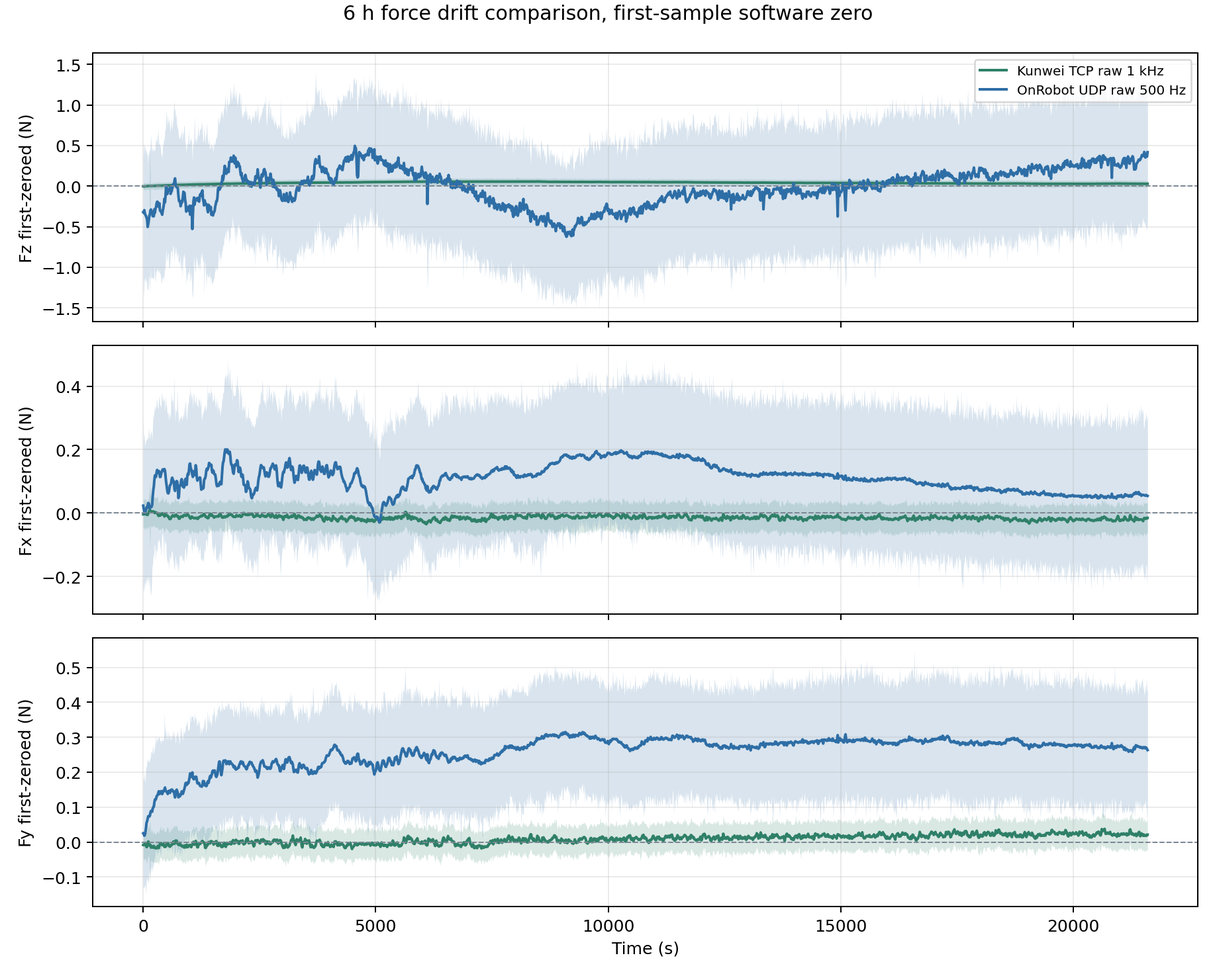
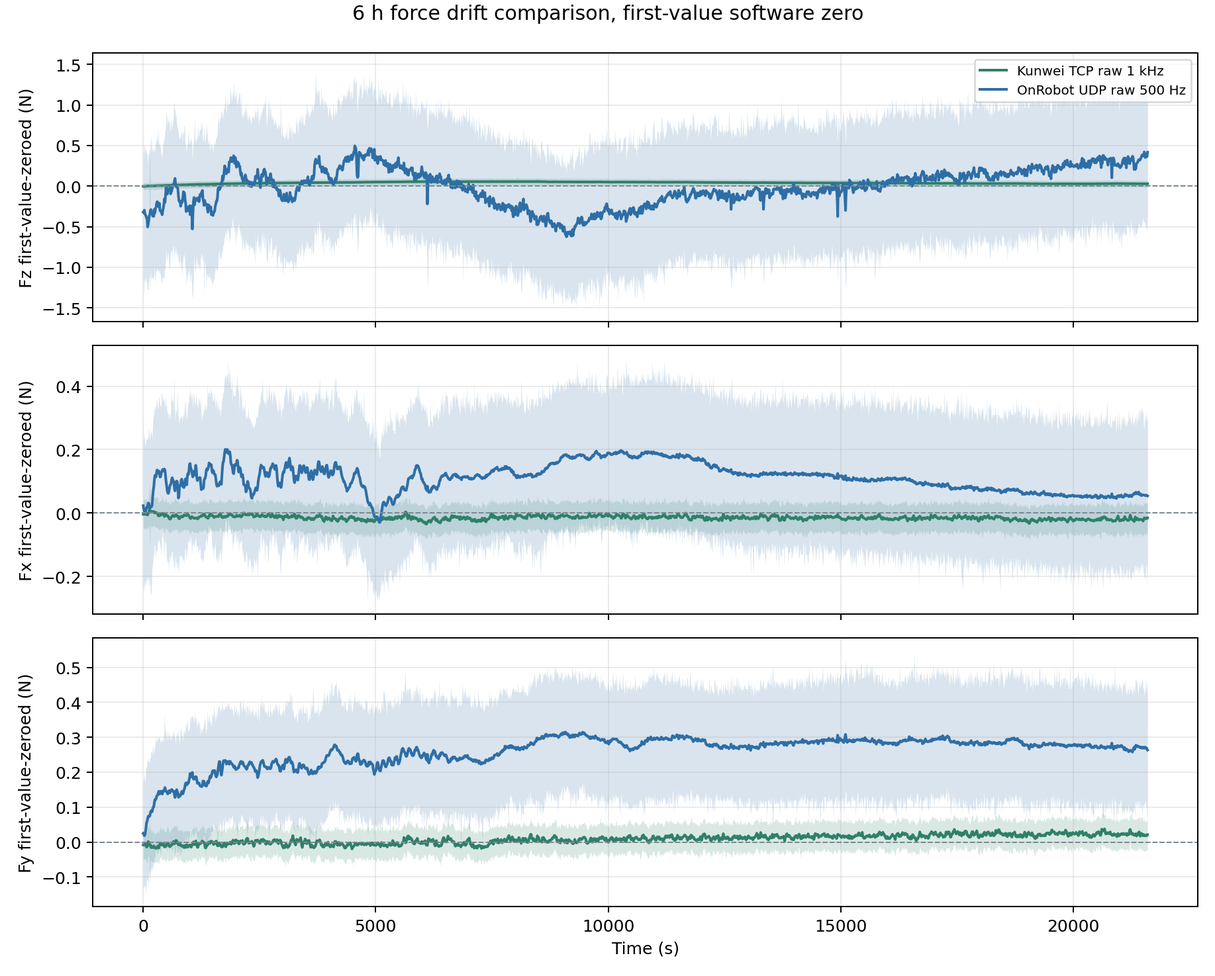
Clarify Kunwei first-value zero comparison

diff --git a/weekly_meeting/kunwei_kwr75_meeting_deck_20260608.html b/weekly_meeting/kunwei_kwr75_meeting_deck_20260608.html
@@ -157,7 +157,7 @@
     <section id="summary">
       <div class="eyebrow">Kunwei KWR75 / UR10e</div>
       <h1>Kunwei force sensor progress report</h1>
-      <p class="lead">Kunwei is no longer just a bring-up task: the TCP raw logging path has a stable 19 h 15 min run, and Step2C has completed a closed-loop straight-line contact task. The remaining issue is force transient and Fz stability, not basic connectivity.</p>
+      <p class="lead">Kunwei is no longer just a bring-up task: the TCP raw logging path has a stable 19 h 15 min run, and Step2C has completed a closed-loop straight-line contact task. The OnRobot/Kunwei comparison in this deck uses existing logs only, with first-value software zero inside each selected window.</p>
       <div class="grid">
         <div class="metric"><span>Long raw capture</span><strong>69.3M samples</strong></div>
         <div class="metric"><span>Average raw rate</span><strong>999.990 Hz</strong></div>
@@ -169,7 +169,7 @@
     <section id="link">
       <div class="eyebrow">Sensor link</div>
       <h2>1 kHz TCP logging is stable for the current bench</h2>
-      <p>The 19 h 15 min no-motion run received converted Kunwei frames continuously over TCP. This validates the current Ubuntu collection path, but it is not a 24 h run and it is not a zero-load calibration.</p>
+      <p>The 19 h 15 min no-motion run received converted Kunwei frames continuously over TCP. This validates the current Ubuntu collection path, but it is not a 24 h run and it is not a device-side zero/tare calibration.</p>
       <div class="grid">
         <div class="metric"><span>Duration</span><strong>19.257 h</strong></div>
         <div class="metric"><span>Fz last-first</span><strong>0.0457 N</strong></div>
@@ -191,10 +191,10 @@
     <section id="compare">
       <div class="eyebrow">Sensor comparison</div>
       <h2>OnRobot vs Kunwei, first 600 s</h2>
-      <p>Both traces are first-sample software zeroed inside their own 600 s windows. The shaded region is a min/max envelope; statistics use all samples in the selected window.</p>
+      <p>Both traces are first-value software zeroed inside their own 600 s windows. No device-side zero/tare was executed for this report version. The shaded region is a min/max envelope; statistics use all samples in the selected window.</p>
       <div class="grid">
-        <figure class="span-12"><img src="assets/kunwei_kwr75_20260608/first600_onrobot_kunwei_force_axes_envelope.png" alt="First 600 s force axes comparison"><figcaption>Fig. 1. Fx/Fy/Fz first-zeroed envelopes. This compares short-window stability, not absolute bias.</figcaption></figure>
-        <figure class="span-7"><img src="assets/kunwei_kwr75_20260608/first600_onrobot_kunwei_fz_envelope.png" alt="First 600 s Fz comparison"><figcaption>Fig. 2. Fz detail, first-zeroed within each sensor's own run.</figcaption></figure>
+        <figure class="span-12"><img src="assets/kunwei_kwr75_20260608/first600_onrobot_kunwei_force_axes_envelope.png" alt="First 600 s force axes comparison"><figcaption>Fig. 1. Fx/Fy/Fz first-value-zeroed envelopes. This compares short-window stability, not absolute bias.</figcaption></figure>
+        <figure class="span-7"><img src="assets/kunwei_kwr75_20260608/first600_onrobot_kunwei_fz_envelope.png" alt="First 600 s Fz comparison"><figcaption>Fig. 2. Fz detail, first-value-zeroed within each sensor's own run.</figcaption></figure>
         <figure class="span-5"><img src="assets/kunwei_kwr75_20260608/first600_onrobot_kunwei_force_std.png" alt="First 600 s force standard deviation"><figcaption>Fig. 3. Force-axis standard deviation in the first 600 s windows.</figcaption></figure>
       </div>
     </section>
@@ -207,15 +207,15 @@
         <div class="metric"><span>OnRobot available</span><strong>8.79 h</strong></div>
         <div class="metric"><span>Common max</span><strong>8.79 h</strong></div>
         <div class="metric"><span>Selected window</span><strong>6.00 h</strong></div>
-        <figure class="span-12"><img src="assets/kunwei_kwr75_20260608/sixh_onrobot_kunwei_fz_envelope.png" alt="6 h Fz comparison"><figcaption>Fig. 4. Fz first-zeroed envelope for the selected 6 h comparison window. Statistics use all samples in the window.</figcaption></figure>
-        <figure class="span-12"><img src="assets/kunwei_kwr75_20260608/sixh_onrobot_kunwei_force_axes_envelope.png" alt="6 h force axes comparison"><figcaption>Fig. 5. Fx/Fy/Fz first-zeroed envelopes over 6 h. This is a long-window drift comparison, not an absolute calibration claim.</figcaption></figure>
+        <figure class="span-12"><img src="assets/kunwei_kwr75_20260608/sixh_onrobot_kunwei_fz_envelope.png" alt="6 h Fz comparison"><figcaption>Fig. 4. Fz first-value-zeroed envelope for the selected 6 h comparison window. Statistics use all samples in the window.</figcaption></figure>
+        <figure class="span-12"><img src="assets/kunwei_kwr75_20260608/sixh_onrobot_kunwei_force_axes_envelope.png" alt="6 h force axes comparison"><figcaption>Fig. 5. Fx/Fy/Fz first-value-zeroed envelopes over 6 h. This is a long-window drift comparison, not an absolute calibration claim.</figcaption></figure>
         <figure class="span-12"><img src="assets/kunwei_kwr75_20260608/sixh_onrobot_kunwei_force_std.png" alt="6 h force standard deviation"><figcaption>Fig. 6. Force-axis standard deviation over the selected 6 h window.</figcaption></figure>
       </div>
     </section>
     <section id="next">
       <div class="eyebrow">Next action</div>
       <h2>Stabilize contact entry before chasing higher frequency</h2>
-      <p>The next Step2C change should reduce line-entry force transient: add a settle stage, or minimally lower normal velocity limit to +/-3 mm/s and alpha to 0.50. A formal OnRobot/Kunwei A/B needs same fixture, same zero/tare strategy, and same no-contact window.</p>
+      <p>The next Step2C change should reduce line-entry force transient: add a settle stage, or minimally lower normal velocity limit to +/-3 mm/s and alpha to 0.50. This report version does not require a new OnRobot/Kunwei experiment; the comparison is explicitly a first-value software-zeroed view of existing logs.</p>
       <div class="grid">
         <table class="span-12">
           <thead><tr><th>Decision</th><th>Current evidence</th><th>Default next move</th></tr></thead>
@@ -223,7 +223,7 @@
             <tr><td>Logging route</td><td>Kunwei TCP raw is stable at 1 kHz class</td><td>Use it as the default Kunwei collector</td></tr>
             <tr><td>Force control</td><td>Mean Fz is near target, but transient and ripple remain large</td><td>Add settle or soften normal correction</td></tr>
             <tr><td>Frequency claim</td><td>RTDE/bridge are 500 Hz class; stage25 echo is ~250 Hz</td><td>Keep these frequency layers separate</td></tr>
-            <tr><td>A/B comparison</td><td>Existing 600 s windows differ in setup/date/load</td><td>Run a same-fixture comparison if absolute claims are needed</td></tr>
+            <tr><td>A/B comparison</td><td>Existing 600 s and 6 h windows differ in setup/date/load</td><td>Use first-value software zero for this report; reserve same-fixture testing only for future absolute calibration claims</td></tr>
           </tbody>
         </table>
       </div>

diff --git a/weekly_meeting/build_kunwei_kwr75_report.py b/weekly_meeting/build_kunwei_kwr75_report.py
@@ -368,9 +368,9 @@ def build_figures(short_kunwei: dict, short_onrobot: dict, long_kunwei: dict, lo
 
     fig, axes = plt.subplots(3, 1, figsize=(10.2, 8.2), sharex=True)
     pairs = [
-        ("Fz", "Fz_N", "fz_n", "Fz first-zeroed (N)"),
-        ("Fx", "Fx_N", "fx_n", "Fx first-zeroed (N)"),
-        ("Fy", "Fy_N", "fy_n", "Fy first-zeroed (N)"),
+        ("Fz", "Fz_N", "fz_n", "Fz first-value-zeroed (N)"),
+        ("Fx", "Fx_N", "fx_n", "Fx first-value-zeroed (N)"),
+        ("Fy", "Fy_N", "fy_n", "Fy first-value-zeroed (N)"),
     ]
     for ax, (_, k_col, o_col, ylabel) in zip(axes, pairs):
         plot_envelope(ax, short_kunwei["series"][k_col], "Kunwei TCP raw 1 kHz", "#2f8068")
@@ -380,7 +380,7 @@ def build_figures(short_kunwei: dict, short_onrobot: dict, long_kunwei: dict, lo
         ax.grid(True, alpha=0.25)
     axes[0].legend(loc="upper right", fontsize=8)
     axes[-1].set_xlabel("Time (s)")
-    fig.suptitle("First 600 s force drift comparison, first-sample software zero", y=0.995)
+    fig.suptitle("First 600 s force drift comparison, first-value software zero", y=0.995)
     fig.tight_layout()
     figures["first600_force_axes"] = save_and_copy(fig, "first600_onrobot_kunwei_force_axes_envelope.png")
 
@@ -389,7 +389,7 @@ def build_figures(short_kunwei: dict, short_onrobot: dict, long_kunwei: dict, lo
     plot_envelope(ax, short_onrobot["series"]["fz_n"], "OnRobot UDP raw 500 Hz", "#2e6ea6")
     ax.axhline(0.0, color="#7b8794", linewidth=0.8, linestyle="--")
     ax.set_xlabel("Time (s)")
-    ax.set_ylabel("Fz first-zeroed (N)")
+    ax.set_ylabel("Fz first-value-zeroed (N)")
     ax.set_title("Fz drift comparison, first 600 s")
     ax.grid(True, alpha=0.25)
     ax.legend(loc="upper right", fontsize=8)
@@ -408,7 +408,7 @@ def build_figures(short_kunwei: dict, short_onrobot: dict, long_kunwei: dict, lo
     ]
     colors = ["#2f8068", "#2e6ea6", "#2f8068", "#2e6ea6", "#2f8068", "#2e6ea6"]
     ax.bar(labels, values, color=colors)
-    ax.set_ylabel("Std after first-sample zero (N)")
+    ax.set_ylabel("Std after first-value zero (N)")
     ax.set_title("First 600 s force noise/drift scale")
     ax.grid(axis="y", alpha=0.25)
     ax.tick_params(axis="x", rotation=25)
@@ -424,7 +424,7 @@ def build_figures(short_kunwei: dict, short_onrobot: dict, long_kunwei: dict, lo
         ax.grid(True, alpha=0.25)
     axes[0].legend(loc="upper right", fontsize=8)
     axes[-1].set_xlabel("Time (s)")
-    fig.suptitle("6 h force drift comparison, first-sample software zero", y=0.995)
+    fig.suptitle("6 h force drift comparison, first-value software zero", y=0.995)
     fig.tight_layout()
     figures["sixh_force_axes"] = save_and_copy(fig, "sixh_onrobot_kunwei_force_axes_envelope.png")
 
@@ -433,7 +433,7 @@ def build_figures(short_kunwei: dict, short_onrobot: dict, long_kunwei: dict, lo
     plot_precomputed_envelope(ax, long_onrobot["envelopes"]["fz_n"], "OnRobot UDP raw 500 Hz", "#2e6ea6")
     ax.axhline(0.0, color="#7b8794", linewidth=0.8, linestyle="--")
     ax.set_xlabel("Time (s)")
-    ax.set_ylabel("Fz first-zeroed (N)")
+    ax.set_ylabel("Fz first-value-zeroed (N)")
     ax.set_title("Fz drift comparison, 6 h")
     ax.grid(True, alpha=0.25)
     ax.legend(loc="upper right", fontsize=8)
@@ -450,7 +450,7 @@ def build_figures(short_kunwei: dict, short_onrobot: dict, long_kunwei: dict, lo
         long_onrobot["zeroed_stats"]["fy_n"]["std"],
     ]
     ax.bar(labels, values, color=colors)
-    ax.set_ylabel("Std after first-sample zero (N)")
+    ax.set_ylabel("Std after first-value zero (N)")
     ax.set_title("6 h force noise/drift scale")
     ax.grid(axis="y", alpha=0.25)
     ax.tick_params(axis="x", rotation=25)
@@ -596,7 +596,7 @@ def strip_plot_data(data: dict) -> dict:
 
 def write_summary_json(short_kunwei: dict, short_onrobot: dict, long_kunwei: dict, long_onrobot: dict, figures: dict, long_summary: dict, step2c: dict) -> Path:
     payload = {
-        "comparison_note": "Both streams use first-sample software zero in their own selected windows; this is not a same-fixture absolute calibration comparison.",
+        "comparison_note": "Both streams use first-value software zero in their own selected windows; no device-side zero/tare was executed and no new experiment is required for this report version.",
         "available_duration": {
             "kunwei_s": 69325.77287676797,
             "onrobot_udp_s": COMMON_MAX_WINDOW_S,
@@ -636,7 +636,7 @@ def build_markdown(short_kunwei: dict, short_onrobot: dict, long_kunwei: dict, l
 
 ## 实验目的
 
-这份报告把 Kunwei KWR75/KWR75B 当前证据单独整理出来，用于说明三件事：传感器与通信链路是否已经可用，长时间无运动 `1 kHz` 采集是否稳定，以及当前 Step2C 闭环直线实验走到什么程度。报告包含两层 OnRobot/Kunwei 对比：前 `600 s` 用于短窗口 noise/drift 判断，`6 h` 用于长时间漂移判断。两者都只作为 drift/noise 口径对照，不作为同机械状态下的绝对标定结论。
+这份报告把 Kunwei KWR75/KWR75B 当前证据单独整理出来，用于说明三件事：传感器与通信链路是否已经可用，长时间无运动 `1 kHz` 采集是否稳定，以及当前 Step2C 闭环直线实验走到什么程度。报告包含两层 OnRobot/Kunwei 对比：前 `600 s` 用于短窗口 noise/drift 判断，`6 h` 用于长时间漂移判断。当前版本只使用已有日志，不重做实验；两者都按各自窗口第一帧做 software zero，只作为 drift/noise 口径对照，不作为同机械状态下的绝对标定结论。
 
 结论先给出：Kunwei TCP raw logging 已经支撑 `19 h 15 min`、约 `1 kHz`、无 parse error 的长跑；Step2C 已经完成 `search5 + guard20` 下的闭环直线，力均值能靠近 `-5 N`，但进入 line 阶段的瞬态和 Fz 波动仍是主要问题。机器人侧运动闭环频率不能写成 `500 Hz`，本轮 stage25 echo/motion gate 实测约 `{fmt(stage25_echo['rate_hz'], 2)} Hz`。
 
@@ -649,7 +649,7 @@ def build_markdown(short_kunwei: dict, short_onrobot: dict, long_kunwei: dict, l
 | Ubuntu bench IP | `192.168.50.26/24` on `enp3s0` |
 | Vendor GUI 状态 | Windows 11 原生 `SensorLinker.exe` 已验证 live 数据与 CSV 记录；Ubuntu/Wine 不是当前默认路线 |
 | 长时采集状态 | 无机器人运动、无接触操作，只测传感器通信和静态读数 |
-| Step2C zero 口径 | bridge 软件 baseline；未调用 Kunwei hardware tare，未调用 UR `zero_ftsensor()` |
+| zero 口径 | 本报告 OnRobot/Kunwei 对比均为 first-value software zero；未调用 Kunwei hardware tare、OnRobot device bias/tare 或 UR `zero_ftsensor()` |
 | Step2C 参考线 | 长度约 `63.58 mm` 的 XY straight-line reference |
 | 本报告图表口径 | 统计用选定窗口内全样本；长 trace 图用 min/max envelope，不用等间隔抽样线作为主证据 |
 | 最长可用公共窗口 | Kunwei `19.26 h`，OnRobot UDP `8.79 h`；本报告长对比采用更适合汇报的 `6 h` |
@@ -671,15 +671,15 @@ def build_markdown(short_kunwei: dict, short_onrobot: dict, long_kunwei: dict, l
 | OnRobot 600s UDP raw CSV | [../experiments/20260528_onrobot_three_stream_600s_first_zero/run_20260528_043100/three_stream_600s_20260528_043052_onrobot_udp500_raw.csv](../experiments/20260528_onrobot_three_stream_600s_first_zero/run_20260528_043100/three_stream_600s_20260528_043052_onrobot_udp500_raw.csv) |
 | OnRobot 6h UDP raw CSV | [../experiments/20260530_onrobot_three_stream_coldstart_drift/run_20260530_175217/three_stream_24h_20260530_20260530_175220_onrobot_udp500_raw.csv](../experiments/20260530_onrobot_three_stream_coldstart_drift/run_20260530_175217/three_stream_24h_20260530_20260530_175220_onrobot_udp500_raw.csv) |
 
-图 1 是本报告最主要的 OnRobot/Kunwei 前 `600 s` 对比图。两条曲线都先减去各自窗口第一帧，因此显示的是本窗口内的相对变化。阴影是每个时间 bin 内的 min/max envelope，实线是 bin mean；统计表仍使用窗口内所有样本。
+图 1 是本报告最主要的 OnRobot/Kunwei 前 `600 s` 对比图。两条曲线都先减去各自窗口第一帧，因此显示的是本窗口内的相对变化。这个 zero 是软件分析口径，不是 device-side zero/tare。阴影是每个时间 bin 内的 min/max envelope，实线是 bin mean；统计表仍使用窗口内所有样本。
 
 ![OnRobot vs Kunwei first 600s force axes]({figures['first600_force_axes']['report']})
 
-图 2 单独展开 Fz。Kunwei 前 `600 s` 的 first-zeroed Fz 标准差是 `{fmt(short_kunwei['zeroed_stats']['Fz_N']['std'], 4)} N`，OnRobot UDP raw 是 `{fmt(short_onrobot['zeroed_stats']['fz_n']['std'], 4)} N`。这个数值不能直接解释成传感器规格优劣，因为两个窗口的安装、载荷和日期不同。
+图 2 单独展开 Fz。Kunwei 前 `600 s` 的 first-value-zeroed Fz 标准差是 `{fmt(short_kunwei['zeroed_stats']['Fz_N']['std'], 4)} N`，OnRobot UDP raw 是 `{fmt(short_onrobot['zeroed_stats']['fz_n']['std'], 4)} N`。这个数值不能直接解释成传感器规格优劣，因为两个窗口的安装、载荷和日期不同。
 
 ![OnRobot vs Kunwei first 600s Fz]({figures['first600_fz']['report']})
 
-图 3 把前三个力轴的 first-zeroed 标准差放在同一张图里，用于快速看 `600 s` 窗口内的波动量级。
+图 3 把前三个力轴的 first-value-zeroed 标准差放在同一张图里，用于快速看 `600 s` 窗口内的波动量级。
 
 ![OnRobot vs Kunwei first 600s std]({figures['first600_std']['report']})
 
@@ -691,7 +691,7 @@ def build_markdown(short_kunwei: dict, short_onrobot: dict, long_kunwei: dict, l
 
 ![OnRobot vs Kunwei 6h force axes]({figures['sixh_force_axes']['report']})
 
-图 6 是 `6 h` 窗口下三个力轴的 first-zeroed 标准差。
+图 6 是 `6 h` 窗口下三个力轴的 first-value-zeroed 标准差。
 
 ![OnRobot vs Kunwei 6h std]({figures['sixh_std']['report']})
 
@@ -736,7 +736,7 @@ def build_markdown(short_kunwei: dict, short_onrobot: dict, long_kunwei: dict, l
 
 {rows_for_torque_table(short_kunwei, short_onrobot)}
 
-比较限制必须写清楚：Kunwei 的前 `600 s` 来自 `19h15min` 未归零静态长跑，OnRobot 来自 `20260528` 的 dedicated `600s_first_zero` run；两者不是同一天、同治具、同预载的同步 A/B。这里能比较的是当前可用 raw stream 在自身 first-zero 口径下的短窗口稳定性和采样路线差异。
+比较限制必须写清楚：Kunwei 的前 `600 s` 来自 `19h15min` 未做 device-side zero/tare 的静态长跑，OnRobot 来自 `20260528` 的 dedicated `600s_first_zero` run；两者不是同一天、同治具、同预载的同步 A/B。这里能比较的是当前可用 raw stream 在自身 first-value software zero 口径下的短窗口稳定性和采样路线差异。
 
 ### OnRobot vs Kunwei 6h
 
@@ -744,19 +744,19 @@ def build_markdown(short_kunwei: dict, short_onrobot: dict, long_kunwei: dict, l
 
 {rows_for_long_force_table(long_kunwei, long_onrobot)}
 
-这个 `6 h` 对比仍然不是严格同治具同步 A/B。它更适合回答“当前两条 raw stream 的长窗口稳定性量级如何”，不适合回答“哪个传感器绝对零点更准”。
+这个 `6 h` 对比仍然不是严格同治具同步 A/B。它更适合回答“当前两条 raw stream 在首值归零后的长窗口稳定性量级如何”，不适合回答“哪个传感器绝对零点更准”。
 
 ## 结论
 
 1. Kunwei TCP raw logging 路线已经可用：`19 h 15 min` 内约 `1 kHz`，`parse_errors=0`，`dropped_sync_bytes=0`。
 2. Kunwei 已经从传感器 bring-up 进入机器人闭环验证阶段。Step2C 主 run 能完成搜索、直线、卸载和回撤；均值层面能围绕 `-5 N` 工作。
 3. 当前不能把 Step2C 写成机器人侧 `500 Hz` 闭环。bridge/RTDE logging 是 500Hz 级，但 URScript stage25 echo/motion gate 约 `{fmt(stage25_echo['rate_hz'], 2)} Hz`。
-4. OnRobot/Kunwei 前 `600 s` 与 `6 h` 对比图说明两条 raw stream 都可以做短窗口和长窗口漂移分析；但由于机械状态不同，报告只解释相对漂移和波动，不解释绝对偏置或规格优劣。
+4. OnRobot/Kunwei 前 `600 s` 与 `6 h` 对比图说明两条 raw stream 都可以用 first-value software zero 做短窗口和长窗口漂移分析；但由于机械状态不同，报告只解释相对漂移和波动，不解释绝对偏置或规格优劣。
 
 ## 下一步
 
 - Step2C 默认加入 settle stage，或先把 `normal velocity limit` 从 `±5 mm/s` 降到 `±3 mm/s`、`alpha` 从 `0.70` 降到 `0.50`，目标是降低 stage25 开头瞬态。
-- 如果要正式做 OnRobot vs Kunwei A/B，应在同一机械状态、同一无接触窗口、明确 zero/tare 策略下同步或连续采集，不能把当前两个历史窗口当成严格标定对照。
+- 本版本不需要新做 OnRobot/Kunwei A/B 实验；当前会议材料只使用已有日志，并明确标注为 first-value software zero 的历史窗口比较。若未来要回答绝对标定问题，再另开同机械状态、同无接触窗口、明确 device-side zero/tare 策略的实验。
 - 如果目标是机器人侧 `500 Hz` 运动闭环，需要另开 `servoj/speedj`、多线程 URScript 或外部实时接口路线，而不是从当前 `speedl` echo 推断。
 
 ## 附录
@@ -949,7 +949,7 @@ def build_html(short_kunwei: dict, short_onrobot: dict, long_kunwei: dict, long_
     <section id="summary">
       <div class="eyebrow">Kunwei KWR75 / UR10e</div>
       <h1>Kunwei force sensor progress report</h1>
-      <p class="lead">Kunwei is no longer just a bring-up task: the TCP raw logging path has a stable 19 h 15 min run, and Step2C has completed a closed-loop straight-line contact task. The remaining issue is force transient and Fz stability, not basic connectivity.</p>
+      <p class="lead">Kunwei is no longer just a bring-up task: the TCP raw logging path has a stable 19 h 15 min run, and Step2C has completed a closed-loop straight-line contact task. The OnRobot/Kunwei comparison in this deck uses existing logs only, with first-value software zero inside each selected window.</p>
       <div class="grid">
         {html_metric("Long raw capture", "69.3M samples")}
         {html_metric("Average raw rate", f"{fmt(overall['rate_hz'], 3)} Hz")}
@@ -961,7 +961,7 @@ def build_html(short_kunwei: dict, short_onrobot: dict, long_kunwei: dict, long_
     <section id="link">
       <div class="eyebrow">Sensor link</div>
       <h2>1 kHz TCP logging is stable for the current bench</h2>
-      <p>The 19 h 15 min no-motion run received converted Kunwei frames continuously over TCP. This validates the current Ubuntu collection path, but it is not a 24 h run and it is not a zero-load calibration.</p>
+      <p>The 19 h 15 min no-motion run received converted Kunwei frames continuously over TCP. This validates the current Ubuntu collection path, but it is not a 24 h run and it is not a device-side zero/tare calibration.</p>
       <div class="grid">
         {html_metric("Duration", f"{fmt(overall['duration_s'] / 3600.0, 3)} h")}
         {html_metric("Fz last-first", f"{fmt(overall['fz_last_first'], 4)} N")}
@@ -983,10 +983,10 @@ def build_html(short_kunwei: dict, short_onrobot: dict, long_kunwei: dict, long_
     <section id="compare">
       <div class="eyebrow">Sensor comparison</div>
       <h2>OnRobot vs Kunwei, first 600 s</h2>
-      <p>Both traces are first-sample software zeroed inside their own 600 s windows. The shaded region is a min/max envelope; statistics use all samples in the selected window.</p>
+      <p>Both traces are first-value software zeroed inside their own 600 s windows. No device-side zero/tare was executed for this report version. The shaded region is a min/max envelope; statistics use all samples in the selected window.</p>
       <div class="grid">
-        <figure class="span-12"><img src="{force_img}" alt="First 600 s force axes comparison"><figcaption>Fig. 1. Fx/Fy/Fz first-zeroed envelopes. This compares short-window stability, not absolute bias.</figcaption></figure>
-        <figure class="span-7"><img src="{fz_img}" alt="First 600 s Fz comparison"><figcaption>Fig. 2. Fz detail, first-zeroed within each sensor's own run.</figcaption></figure>
+        <figure class="span-12"><img src="{force_img}" alt="First 600 s force axes comparison"><figcaption>Fig. 1. Fx/Fy/Fz first-value-zeroed envelopes. This compares short-window stability, not absolute bias.</figcaption></figure>
+        <figure class="span-7"><img src="{fz_img}" alt="First 600 s Fz comparison"><figcaption>Fig. 2. Fz detail, first-value-zeroed within each sensor's own run.</figcaption></figure>
         <figure class="span-5"><img src="{std_img}" alt="First 600 s force standard deviation"><figcaption>Fig. 3. Force-axis standard deviation in the first 600 s windows.</figcaption></figure>
       </div>
     </section>
@@ -999,15 +999,15 @@ def build_html(short_kunwei: dict, short_onrobot: dict, long_kunwei: dict, long_
         {html_metric("OnRobot available", "8.79 h")}
         {html_metric("Common max", "8.79 h")}
         {html_metric("Selected window", "6.00 h")}
-        <figure class="span-12"><img src="{sixh_fz_img}" alt="6 h Fz comparison"><figcaption>Fig. 4. Fz first-zeroed envelope for the selected 6 h comparison window. Statistics use all samples in the window.</figcaption></figure>
-        <figure class="span-12"><img src="{sixh_force_img}" alt="6 h force axes comparison"><figcaption>Fig. 5. Fx/Fy/Fz first-zeroed envelopes over 6 h. This is a long-window drift comparison, not an absolute calibration claim.</figcaption></figure>
+        <figure class="span-12"><img src="{sixh_fz_img}" alt="6 h Fz comparison"><figcaption>Fig. 4. Fz first-value-zeroed envelope for the selected 6 h comparison window. Statistics use all samples in the window.</figcaption></figure>
+        <figure class="span-12"><img src="{sixh_force_img}" alt="6 h force axes comparison"><figcaption>Fig. 5. Fx/Fy/Fz first-value-zeroed envelopes over 6 h. This is a long-window drift comparison, not an absolute calibration claim.</figcaption></figure>
         <figure class="span-12"><img src="{sixh_std_img}" alt="6 h force standard deviation"><figcaption>Fig. 6. Force-axis standard deviation over the selected 6 h window.</figcaption></figure>
       </div>
     </section>
     <section id="next">
       <div class="eyebrow">Next action</div>
       <h2>Stabilize contact entry before chasing higher frequency</h2>
-      <p>The next Step2C change should reduce line-entry force transient: add a settle stage, or minimally lower normal velocity limit to +/-3 mm/s and alpha to 0.50. A formal OnRobot/Kunwei A/B needs same fixture, same zero/tare strategy, and same no-contact window.</p>
+      <p>The next Step2C change should reduce line-entry force transient: add a settle stage, or minimally lower normal velocity limit to +/-3 mm/s and alpha to 0.50. This report version does not require a new OnRobot/Kunwei experiment; the comparison is explicitly a first-value software-zeroed view of existing logs.</p>
       <div class="grid">
         <table class="span-12">
           <thead><tr><th>Decision</th><th>Current evidence</th><th>Default next move</th></tr></thead>
@@ -1015,7 +1015,7 @@ def build_html(short_kunwei: dict, short_onrobot: dict, long_kunwei: dict, long_
             <tr><td>Logging route</td><td>Kunwei TCP raw is stable at 1 kHz class</td><td>Use it as the default Kunwei collector</td></tr>
             <tr><td>Force control</td><td>Mean Fz is near target, but transient and ripple remain large</td><td>Add settle or soften normal correction</td></tr>
             <tr><td>Frequency claim</td><td>RTDE/bridge are 500 Hz class; stage25 echo is ~250 Hz</td><td>Keep these frequency layers separate</td></tr>
-            <tr><td>A/B comparison</td><td>Existing 600 s windows differ in setup/date/load</td><td>Run a same-fixture comparison if absolute claims are needed</td></tr>
+            <tr><td>A/B comparison</td><td>Existing 600 s and 6 h windows differ in setup/date/load</td><td>Use first-value software zero for this report; reserve same-fixture testing only for future absolute calibration claims</td></tr>
           </tbody>
         </table>
       </div>

diff --git a/report/kunwei-kwr75-progress-20260608.md b/report/kunwei-kwr75-progress-20260608.md
@@ -2,7 +2,7 @@
 
 ## 实验目的
 
-这份报告把 Kunwei KWR75/KWR75B 当前证据单独整理出来，用于说明三件事：传感器与通信链路是否已经可用，长时间无运动 `1 kHz` 采集是否稳定，以及当前 Step2C 闭环直线实验走到什么程度。报告包含两层 OnRobot/Kunwei 对比：前 `600 s` 用于短窗口 noise/drift 判断，`6 h` 用于长时间漂移判断。两者都只作为 drift/noise 口径对照，不作为同机械状态下的绝对标定结论。
+这份报告把 Kunwei KWR75/KWR75B 当前证据单独整理出来，用于说明三件事：传感器与通信链路是否已经可用，长时间无运动 `1 kHz` 采集是否稳定，以及当前 Step2C 闭环直线实验走到什么程度。报告包含两层 OnRobot/Kunwei 对比：前 `600 s` 用于短窗口 noise/drift 判断，`6 h` 用于长时间漂移判断。当前版本只使用已有日志，不重做实验；两者都按各自窗口第一帧做 software zero，只作为 drift/noise 口径对照，不作为同机械状态下的绝对标定结论。
 
 结论先给出：Kunwei TCP raw logging 已经支撑 `19 h 15 min`、约 `1 kHz`、无 parse error 的长跑；Step2C 已经完成 `search5 + guard20` 下的闭环直线，力均值能靠近 `-5 N`，但进入 line 阶段的瞬态和 Fz 波动仍是主要问题。机器人侧运动闭环频率不能写成 `500 Hz`，本轮 stage25 echo/motion gate 实测约 `246.55 Hz`。
 
@@ -15,7 +15,7 @@
 | Ubuntu bench IP | `192.168.50.26/24` on `enp3s0` |
 | Vendor GUI 状态 | Windows 11 原生 `SensorLinker.exe` 已验证 live 数据与 CSV 记录；Ubuntu/Wine 不是当前默认路线 |
 | 长时采集状态 | 无机器人运动、无接触操作，只测传感器通信和静态读数 |
-| Step2C zero 口径 | bridge 软件 baseline；未调用 Kunwei hardware tare，未调用 UR `zero_ftsensor()` |
+| zero 口径 | 本报告 OnRobot/Kunwei 对比均为 first-value software zero；未调用 Kunwei hardware tare、OnRobot device bias/tare 或 UR `zero_ftsensor()` |
 | Step2C 参考线 | 长度约 `63.58 mm` 的 XY straight-line reference |
 | 本报告图表口径 | 统计用选定窗口内全样本；长 trace 图用 min/max envelope，不用等间隔抽样线作为主证据 |
 | 最长可用公共窗口 | Kunwei `19.26 h`，OnRobot UDP `8.79 h`；本报告长对比采用更适合汇报的 `6 h` |
@@ -37,15 +37,15 @@
 | OnRobot 600s UDP raw CSV | [../experiments/20260528_onrobot_three_stream_600s_first_zero/run_20260528_043100/three_stream_600s_20260528_043052_onrobot_udp500_raw.csv](../experiments/20260528_onrobot_three_stream_600s_first_zero/run_20260528_043100/three_stream_600s_20260528_043052_onrobot_udp500_raw.csv) |
 | OnRobot 6h UDP raw CSV | [../experiments/20260530_onrobot_three_stream_coldstart_drift/run_20260530_175217/three_stream_24h_20260530_20260530_175220_onrobot_udp500_raw.csv](../experiments/20260530_onrobot_three_stream_coldstart_drift/run_20260530_175217/three_stream_24h_20260530_20260530_175220_onrobot_udp500_raw.csv) |
 
-图 1 是本报告最主要的 OnRobot/Kunwei 前 `600 s` 对比图。两条曲线都先减去各自窗口第一帧，因此显示的是本窗口内的相对变化。阴影是每个时间 bin 内的 min/max envelope，实线是 bin mean；统计表仍使用窗口内所有样本。
+图 1 是本报告最主要的 OnRobot/Kunwei 前 `600 s` 对比图。两条曲线都先减去各自窗口第一帧，因此显示的是本窗口内的相对变化。这个 zero 是软件分析口径，不是 device-side zero/tare。阴影是每个时间 bin 内的 min/max envelope，实线是 bin mean；统计表仍使用窗口内所有样本。
 
 ![OnRobot vs Kunwei first 600s force axes](assets/kunwei-kwr75-progress-20260608/first600_onrobot_kunwei_force_axes_envelope.png)
 
-图 2 单独展开 Fz。Kunwei 前 `600 s` 的 first-zeroed Fz 标准差是 `0.0113 N`，OnRobot UDP raw 是 `0.1541 N`。这个数值不能直接解释成传感器规格优劣，因为两个窗口的安装、载荷和日期不同。
+图 2 单独展开 Fz。Kunwei 前 `600 s` 的 first-value-zeroed Fz 标准差是 `0.0113 N`，OnRobot UDP raw 是 `0.1541 N`。这个数值不能直接解释成传感器规格优劣，因为两个窗口的安装、载荷和日期不同。
 
 ![OnRobot vs Kunwei first 600s Fz](assets/kunwei-kwr75-progress-20260608/first600_onrobot_kunwei_fz_envelope.png)
 
-图 3 把前三个力轴的 first-zeroed 标准差放在同一张图里，用于快速看 `600 s` 窗口内的波动量级。
+图 3 把前三个力轴的 first-value-zeroed 标准差放在同一张图里，用于快速看 `600 s` 窗口内的波动量级。
 
 ![OnRobot vs Kunwei first 600s std](assets/kunwei-kwr75-progress-20260608/first600_onrobot_kunwei_force_std.png)
 
@@ -57,7 +57,7 @@
 
 ![OnRobot vs Kunwei 6h force axes](assets/kunwei-kwr75-progress-20260608/sixh_onrobot_kunwei_force_axes_envelope.png)
 
-图 6 是 `6 h` 窗口下三个力轴的 first-zeroed 标准差。
+图 6 是 `6 h` 窗口下三个力轴的 first-value-zeroed 标准差。
 
 ![OnRobot vs Kunwei 6h std](assets/kunwei-kwr75-progress-20260608/sixh_onrobot_kunwei_force_std.png)
 
@@ -116,7 +116,7 @@
 | Kunwei TCP raw | Mz/Tz | 0.00033 | 0.00084 | 0.05950 / 0.06300 |
 | OnRobot UDP raw | Mz/Tz | 0.00215 | 0.00300 | 0.06200 / 0.08100 |
 
-比较限制必须写清楚：Kunwei 的前 `600 s` 来自 `19h15min` 未归零静态长跑，OnRobot 来自 `20260528` 的 dedicated `600s_first_zero` run；两者不是同一天、同治具、同预载的同步 A/B。这里能比较的是当前可用 raw stream 在自身 first-zero 口径下的短窗口稳定性和采样路线差异。
+比较限制必须写清楚：Kunwei 的前 `600 s` 来自 `19h15min` 未做 device-side zero/tare 的静态长跑，OnRobot 来自 `20260528` 的 dedicated `600s_first_zero` run；两者不是同一天、同治具、同预载的同步 A/B。这里能比较的是当前可用 raw stream 在自身 first-value software zero 口径下的短窗口稳定性和采样路线差异。
 
 ### OnRobot vs Kunwei 6h
 
@@ -131,19 +131,19 @@
 | Kunwei TCP raw | Fz | 21,599,781 | 6.000 | 999.990 | 0.0156 | 0.0176 | 0.0308 | -1.604 / -0.497 |
 | OnRobot UDP raw | Fz | 10,791,425 | 6.000 | 499.603 | 0.3212 | 0.4000 | 0.7036 | -25.490 / -22.480 |
 
-这个 `6 h` 对比仍然不是严格同治具同步 A/B。它更适合回答“当前两条 raw stream 的长窗口稳定性量级如何”，不适合回答“哪个传感器绝对零点更准”。
+这个 `6 h` 对比仍然不是严格同治具同步 A/B。它更适合回答“当前两条 raw stream 在首值归零后的长窗口稳定性量级如何”，不适合回答“哪个传感器绝对零点更准”。
 
 ## 结论
 
 1. Kunwei TCP raw logging 路线已经可用：`19 h 15 min` 内约 `1 kHz`，`parse_errors=0`，`dropped_sync_bytes=0`。
 2. Kunwei 已经从传感器 bring-up 进入机器人闭环验证阶段。Step2C 主 run 能完成搜索、直线、卸载和回撤；均值层面能围绕 `-5 N` 工作。
 3. 当前不能把 Step2C 写成机器人侧 `500 Hz` 闭环。bridge/RTDE logging 是 500Hz 级，但 URScript stage25 echo/motion gate 约 `246.55 Hz`。
-4. OnRobot/Kunwei 前 `600 s` 与 `6 h` 对比图说明两条 raw stream 都可以做短窗口和长窗口漂移分析；但由于机械状态不同，报告只解释相对漂移和波动，不解释绝对偏置或规格优劣。
+4. OnRobot/Kunwei 前 `600 s` 与 `6 h` 对比图说明两条 raw stream 都可以用 first-value software zero 做短窗口和长窗口漂移分析；但由于机械状态不同，报告只解释相对漂移和波动，不解释绝对偏置或规格优劣。
 
 ## 下一步
 
 - Step2C 默认加入 settle stage，或先把 `normal velocity limit` 从 `±5 mm/s` 降到 `±3 mm/s`、`alpha` 从 `0.70` 降到 `0.50`，目标是降低 stage25 开头瞬态。
-- 如果要正式做 OnRobot vs Kunwei A/B，应在同一机械状态、同一无接触窗口、明确 zero/tare 策略下同步或连续采集，不能把当前两个历史窗口当成严格标定对照。
+- 本版本不需要新做 OnRobot/Kunwei A/B 实验；当前会议材料只使用已有日志，并明确标注为 first-value software zero 的历史窗口比较。若未来要回答绝对标定问题，再另开同机械状态、同无接触窗口、明确 device-side zero/tare 策略的实验。
 - 如果目标是机器人侧 `500 Hz` 运动闭环，需要另开 `servoj/speedj`、多线程 URScript 或外部实时接口路线，而不是从当前 `speedl` echo 推断。
 
 ## 附录
